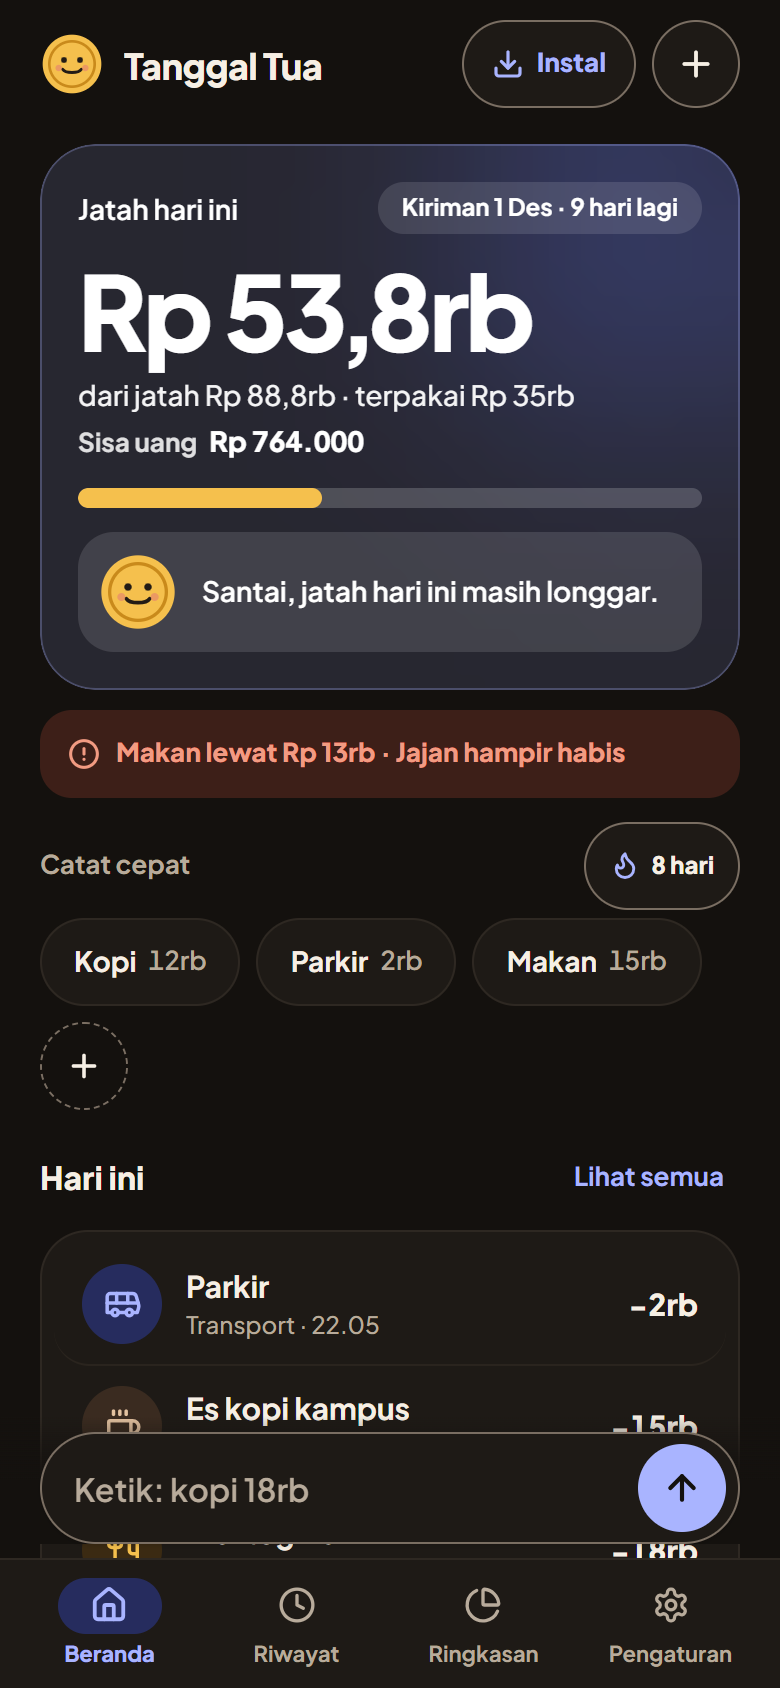
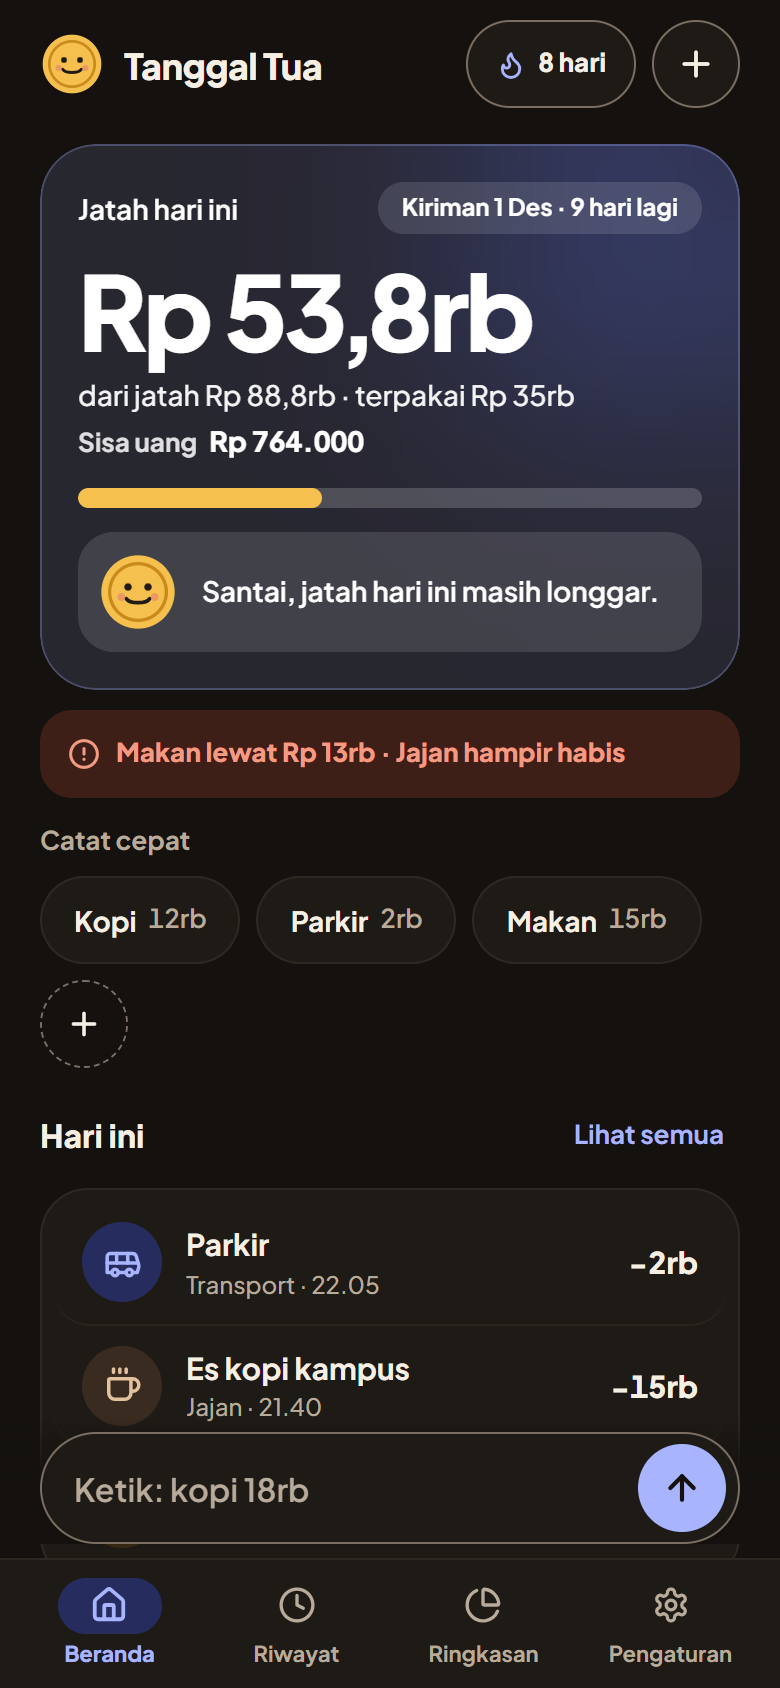
fix(home): pindah pil streak ke header atas dan rilis 1.0.1

diff --git a/src/features/home/HomePage.tsx b/src/features/home/HomePage.tsx
@@ -1,8 +1,7 @@
-import { AlertCircle, Bell, Download, Plus, Target, X } from 'lucide-react';
+import { AlertCircle, Bell, Download, Flame, Plus, Target, X } from 'lucide-react';
 import { useEffect, useRef, useState } from 'react';
 import { Link, useLocation, useNavigate } from 'react-router-dom';
 import { Wordmark } from '../../components/brand/Wordmark';
-import { InstallPwaButton } from '../../components/ui/InstallPwaButton';
 import { IosInstallGuide } from '../../components/ui/IosInstallGuide';
 import { ProgressBar } from '../../components/ui/ProgressBar';
 import { Sheet } from '../../components/ui/Sheet';
@@ -167,13 +166,29 @@ export function HomePage({ live }: HomePageProps) {
     <>
       <header className="flex h-16 items-center justify-between gap-2">
         <Wordmark mood={live.homeState.mood} asHeading />
-        <div className="flex items-center gap-2">
-          <InstallPwaButton variant="compact" />
+        <div className="flex shrink-0 items-center gap-2">
+          <button
+            type="button"
+            data-testid="streak-pill"
+            onClick={() => setIsStreakOpen(true)}
+            aria-label={`Streak mencatat ${live.streak.currentStreak} hari`}
+            className="inline-flex min-h-[44px] items-center gap-1.5 rounded-full border border-[var(--border-control)] bg-[var(--surface)] px-3.5 text-[13px] font-extrabold text-[var(--ink)] transition-colors hover:bg-[var(--border-soft)] active:scale-95"
+          >
+            <Flame
+              size={15}
+              strokeWidth={2.3}
+              className="shrink-0 text-[var(--primary)]"
+              aria-hidden="true"
+            />
+            <span className="tabular-nums whitespace-nowrap">
+              {live.streak.currentStreak} hari
+            </span>
+          </button>
           <button
             type="button"
             onClick={() => openTransactionSheet({ defaultType: 'expense' })}
             aria-label="Tambah transaksi lengkap"
-            className="inline-flex h-[44px] w-[44px] items-center justify-center rounded-full border border-[var(--border-control)] bg-[var(--surface)] text-[var(--ink)] transition-colors hover:bg-[var(--border-soft)] active:scale-95"
+            className="inline-flex h-[44px] w-[44px] shrink-0 items-center justify-center rounded-full border border-[var(--border-control)] bg-[var(--surface)] text-[var(--ink)] transition-colors hover:bg-[var(--border-soft)] active:scale-95"
           >
             <Plus size={20} strokeWidth={2.3} aria-hidden="true" />
           </button>
@@ -320,8 +335,6 @@ export function HomePage({ live }: HomePageProps) {
         budgets={live.budgets}
         categoryMap={live.categoryMap}
         lastCelebratedStreak={live.settings.lastCelebratedStreak}
-        currentStreak={live.streak.currentStreak}
-        onOpenStreakSheet={() => setIsStreakOpen(true)}
         onAddTemplateClick={() => {
           setTplError(null);
           setIsAddTemplateOpen(true);

diff --git a/src/features/home/QuickChips.tsx b/src/features/home/QuickChips.tsx
@@ -1,4 +1,4 @@
-import { Flame, Plus } from 'lucide-react';
+import { Plus } from 'lucide-react';
 import {
   applyTemplateQuickTap,
   revertTemplateQuickTap,
@@ -16,8 +16,6 @@ interface QuickChipsProps {
   budgets?: Budget[];
   categoryMap?: ReadonlyMap<string, Category>;
   lastCelebratedStreak?: number;
-  currentStreak: number;
-  onOpenStreakSheet: () => void;
   onAddTemplateClick: () => void;
 }
 
@@ -29,8 +27,6 @@ export function QuickChips({
   budgets = [],
   categoryMap = new Map(),
   lastCelebratedStreak = 0,
-  currentStreak,
-  onOpenStreakSheet,
   onAddTemplateClick,
 }: QuickChipsProps) {
   const handleChipTap = async (tpl: Template) => {
@@ -59,23 +55,10 @@ export function QuickChips({
 
   return (
     <section aria-label={UI_STRINGS.quickSectionLabel} className="mt-3">
-      <div className="flex items-center justify-between gap-2">
-        <h2 className="text-[13px] font-bold text-[var(--muted)]">
-          {UI_STRINGS.quickSectionLabel}
-        </h2>
-
-        <button
-          type="button"
-          data-testid="streak-pill"
-          onClick={onOpenStreakSheet}
-          aria-label={`Streak mencatat ${currentStreak} hari`}
-          className="inline-flex min-h-[44px] items-center gap-1.5 rounded-full border border-[var(--border-control)] bg-[var(--surface)] px-3 text-[12px] font-extrabold text-[var(--ink)] transition-colors hover:bg-[var(--border-soft)] active:scale-95"
-        >
-          <Flame size={15} strokeWidth={2.3} className="text-[var(--primary)]" aria-hidden="true" />
-          <span className="tabular-nums">{currentStreak} hari</span>
-        </button>
-      </div>
-      <div className="mt-1 flex flex-wrap items-center gap-2">
+      <h2 className="text-[13px] font-bold text-[var(--muted)]">
+        {UI_STRINGS.quickSectionLabel}
+      </h2>
+      <div className="mt-2 flex flex-wrap items-center gap-2">
         {templates.map((tpl) => (
           <button
             key={tpl.id}

diff --git a/src/features/history/HistoryAndSettings.test.tsx b/src/features/history/HistoryAndSettings.test.tsx
@@ -99,7 +99,7 @@ describe('History & Settings pages (Milestone M5)', () => {
 
     await waitFor(() => {
       expect(screen.getByRole('heading', { name: 'Pengaturan' })).toBeInTheDocument();
-      expect(screen.getByText(/Versi 1\.0\.0/i)).toBeInTheDocument();
+      expect(screen.getByText(/Versi 1\.0\.1/i)).toBeInTheDocument();
     });
 
     const balanceInput = screen.getByLabelText('Uang nyata yang kamu pegang sekarang');
@@ -141,7 +141,7 @@ describe('History & Settings pages (Milestone M5)', () => {
 
     await waitFor(() => {
       expect(screen.getByRole('heading', { name: 'Pengaturan' })).toBeInTheDocument();
-      expect(screen.getByText(/Versi 1\.0\.0/i)).toBeInTheDocument();
+      expect(screen.getByText(/Versi 1\.0\.1/i)).toBeInTheDocument();
     });
 
     const radioTerang = screen.getByRole('radio', { name: 'Terang' });
@@ -362,7 +362,7 @@ describe('History & Settings pages (Milestone M5)', () => {
       );
 
       const aboutHeading = screen.getByRole('heading', {
-        name: /Tanggal Tua · Versi 1\.0\.0/,
+        name: /Tanggal Tua · Versi 1\.0\.1/,
       });
       expect(aboutHeading).toBeInTheDocument();
       expect(aboutHeading.textContent).not.toMatch(/beta|pra-rilis/i);

diff --git a/src/features/home/Home.test.tsx b/src/features/home/Home.test.tsx
@@ -331,6 +331,10 @@ describe('Home features & components (Milestone M3 & 0.3.0 Tugas 1)', () => {
 
     const pill = await screen.findByTestId('streak-pill');
     expect(pill).toHaveTextContent('2 hari');
+    expect(screen.getByRole('banner')).toContainElement(pill);
+    expect(
+      screen.queryByRole('button', { name: /Instal aplikasi Tanggal Tua/i })
+    ).not.toBeInTheDocument();
 
     // Open StreakSheet and mark today as no_spend -> reaches streak 3 milestone!
     await user.click(pill);

diff --git a/e2e/release-1.0.spec.ts b/e2e/release-1.0.spec.ts
@@ -126,7 +126,7 @@ test.describe('Tanggal Tua 1.0.0 Full E2E & Accessibility Suite', () => {
 
     await page.getByRole('link', { name: 'Pengaturan' }).click();
     const aboutHeading = page.getByRole('heading', {
-      name: /Tanggal Tua · Versi 1\.0\.0/,
+      name: /Tanggal Tua · Versi 1\.0\.1/,
     });
     await expect(aboutHeading).toBeVisible();
     expect((await aboutHeading.textContent()) ?? '').not.toMatch(/beta|pra-rilis/i);

diff --git a/e2e/tanggal-tua.spec.ts b/e2e/tanggal-tua.spec.ts
@@ -117,7 +117,7 @@ test.describe('Tanggal Tua E2E Flows (0.3.0 Tugas 5)', () => {
     await completeInitialOnboarding(page);
 
     await page.getByRole('link', { name: 'Pengaturan' }).click();
-    await expect(page.getByText(/Versi 1\.0\.0/i)).toBeVisible();
+    await expect(page.getByText(/Versi 1\.0\.1/i)).toBeVisible();
 
     const darkRadio = page.getByRole('radio', { name: 'Gelap' });
     await darkRadio.click();

diff --git a/CHANGELOG.md b/CHANGELOG.md
@@ -3,6 +3,12 @@
 Seluruh perubahan penting pada proyek **Tanggal Tua** dicatat di dokumen ini.
 Format mengacu pada [Keep a Changelog](https://keepachangelog.com/id/1.1.0/), dan penomoran versi mengikuti [Semantic Versioning](https://semver.org/lang/id/).
 
+## [1.0.1] - 2026-11-22
+
+### Changed
+- Pil streak (`N hari`) dipindahkan dari baris `Catat cepat` ke sisi kanan header atas Beranda berdampingan dengan tombol `+` agar tata letak Beranda lebih rapi dan proporsional.
+- Tombol `Instal` ringkas dilepas dari header Beranda supaya ruang header tetap lega pada layar sempit; opsi pemasangan aplikasi tetap tersedia di Pengaturan dan Onboarding.
+
 ## [1.0.0] - 2026-11-22
 
 ### Added

diff --git a/README.md b/README.md
@@ -2,7 +2,7 @@
 
 > Bertahan sampai kiriman berikutnya.
 
-[![Versi](https://img.shields.io/badge/versi-1.0.0-2B3A8C.svg)](CHANGELOG.md)
+[![Versi](https://img.shields.io/badge/versi-1.0.1-2B3A8C.svg)](CHANGELOG.md)
 [![Lisensi MIT](https://img.shields.io/badge/lisensi-MIT-1D5C3A.svg)](LICENSE)
 
 Aplikasi pencatat keuangan harian (*Progressive Web App*, *mobile-first*, *local-first*) untuk mahasiswa dan Gen Z di Indonesia yang langsung menjawab pertanyaan praktis setiap hari: **"Hari ini aku masih boleh jajan berapa?"**
